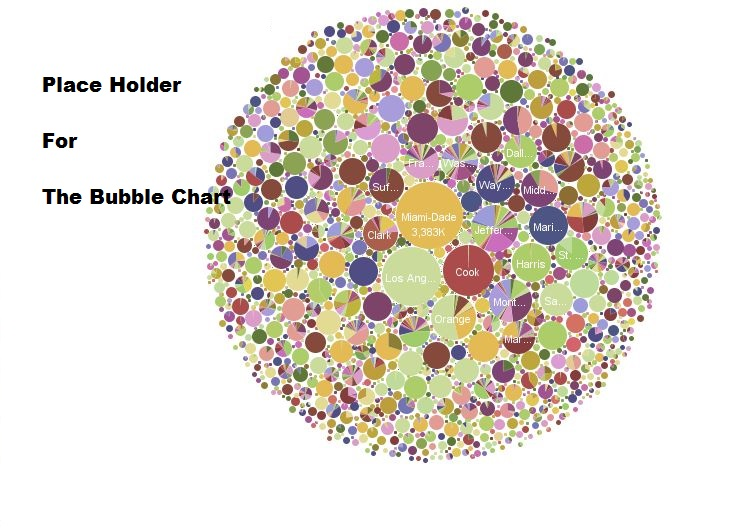
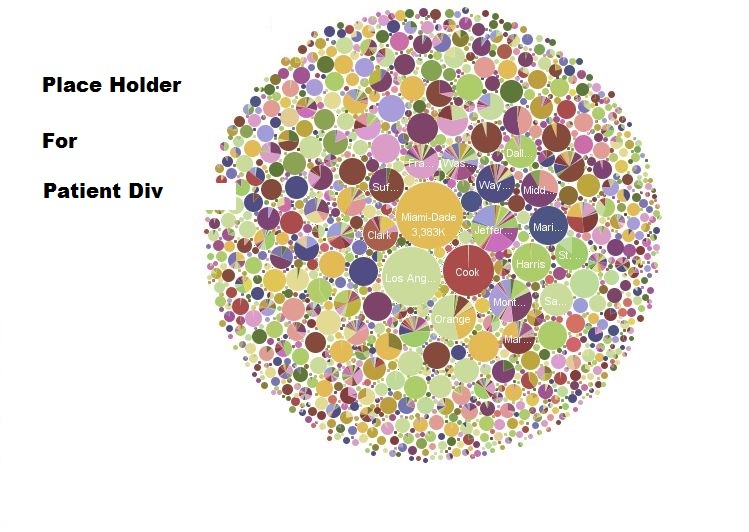
Donut chart changes & Tab Switching
text label position transition
switch between encounter and patient divs

Changed region(s): [[0.0614, 0.3308, 0.3378, 0.4211]]

diff --git a/index.html b/index.html
@@ -147,8 +147,8 @@ cursor:pointer;
             </div>
 
             <div class="collapse navbar-collapse" id="bs-example-navbar-collapse-1">
-				<a class="navbar-brand" href="#people" style="margin-left:100px"><b>Encounter-level</b></a>
-				<a class="navbar-brand" href="#courses" style="margin-left:50px"><b>Patient-level</b></a>
+				<a class="navbar-brand" href="#encounter" style="margin-left:100px" onclick="toggleView(1)"><b>Encounter-level</b></a>
+				<a class="navbar-brand" href="#patient" style="margin-left:50px" onclick="toggleView(2)"><b>Patient-level</b></a>
                 <!-- <ul class="nav navbar-nav">
                     <li>
                         <a href="#people">People</a>
@@ -258,54 +258,60 @@ cursor:pointer;
 			</div>
 		</div>
 		
-		<div class="col-sm-8">	
+		<div id="encounter">
+			<div class="col-sm-8">	
 
-			<table style="margin-top:20px;width:100%;">
-				<tr>
-					<td align="center">
-						<p style="font-size:30px;" id="encountercounttext"></p>
-					</td>
-					<td align="center">
-						<p style="font-size:30px;" id="membercounttext"></p>
-					</td>
-				</tr>
-			</table>		
-			<div align="center" style="margin-left:150px;" id="bubblechart">
-				<!--<img src="bubble_placeholder.jpg" style="border:1px solid black;" onClick="draw_charts_all()"></img>-->
-			</div>			
-			<table align="left">
-				<tr>
-					<div align="center" id="selected-bubble"></div>
-				</tr>
-				<tr>
-					<td style="width:250px;">
-						<div id="bardrugs" style="width: 550px"></div>
-					</td>
-					<td align="left" style="width:250px;">
-						<div id="barlabtest" style="width: 550px"></div>
-					</td>				
-					<td>
-						<p class="hide" id="visittypeheading" style="margin-left:70px;font-size:13px;font-family:sans-serif;">Visit Types</p>
-						<div align="center" id="visittypedougnut"></div>
-					</td>									
-				</tr>
-			</table>
-			<!--
-				<tr>
-					<td align="left">
-						<div id="visithistogram"></div>
-					</td>
-					<td align="right">
-						<div id="dougnutchart"></div>
-					</td>
-				</tr>
-				<tr>
-					<td align="center">
-						<div id="choronologicalvis"></div>
-					</td>
-				</tr>
-			</table>
-			-->
+				<table style="margin-top:20px;width:100%;">
+					<tr>
+						<td align="center">
+							<p style="font-size:30px;" id="encountercounttext"></p>
+						</td>
+						<td align="center">
+							<p style="font-size:30px;" id="membercounttext"></p>
+						</td>
+					</tr>
+				</table>		
+				<div align="center" style="margin-left:150px;" id="bubblechart">
+					<!--<img src="bubble_placeholder.jpg" style="border:1px solid black;" onClick="draw_charts_all()"></img>-->
+				</div>			
+				<table align="left">
+					<tr>
+						<div align="center" id="selected-bubble"></div>
+					</tr>
+					<tr>
+						<td style="width:250px;">
+							<div id="bardrugs" style="width: 550px"></div>
+						</td>
+						<td align="left" style="width:250px;">
+							<div id="barlabtest" style="width: 550px"></div>
+						</td>				
+						<td>
+							<p class="hide" id="visittypeheading" style="margin-left:70px;margin-top:30px;font-size:13px;font-family:sans-serif;"><b>Visit Types</b></p>
+							<div align="center" id="visittypedougnut"></div>
+						</td>									
+					</tr>
+				</table>
+				<!--
+					<tr>
+						<td align="left">
+							<div id="visithistogram"></div>
+						</td>
+						<td align="right">
+							<div id="dougnutchart"></div>
+						</td>
+					</tr>
+					<tr>
+						<td align="center">
+							<div id="choronologicalvis"></div>
+						</td>
+					</tr>
+				</table>
+				-->
+			</div>
+		</div>
+		
+		<div id="patient" style="visibility:hidden;">
+			<img src="bubble_placeholder.jpg" style="border:1px solid black;" onClick="draw_charts_all()"></img>
 		</div>
 		<!--
 		
@@ -359,6 +365,23 @@ cursor:pointer;
 </body>
 <script type="text/javascript" src="js/filterFunction.js"></script>
 <script type="text/javascript">
+	function toggleView(selectedView){
+		
+		if(selectedView==1){
+			document.getElementById('encounter').style.display = "inline";
+			document.getElementById('encounter').style.visibility = "visible";
+			document.getElementById('patient').style.display = "none";
+			document.getElementById('patient').style.visibility = "hidden";
+		}else{
+			document.getElementById('patient').style.display = "inline";
+			document.getElementById('patient').style.visibility = "visible";
+			document.getElementById('encounter').style.display = "none";
+			document.getElementById('encounter').style.visibility = "hidden";	
+		}
+			
+	}
+
+
 	function unique(list) {
 	    var result = [];
 	    $.each(list, function(i, e) {

diff --git a/js/donutChart.js b/js/donutChart.js
@@ -2,7 +2,7 @@
 function drawDonutChart(filteredDataMap){
 d3.select("#visittypedougnut").selectAll("svg").remove();
 $("#visittypeheading").removeClass("hide");
-//console.log(filteredDataMap)
+
 var tip = d3.tip()
 		  .attr('class', 'd3-tip')
 		  .offset([-10, 0])
@@ -25,7 +25,7 @@ var pie = d3.layout.pie()
 
 var arc = d3.svg.arc()
     .innerRadius(radius - 100)
-    .outerRadius(radius - 50);
+    .outerRadius(radius - 30);
 
 var svg = d3.select("#visittypedougnut").append("svg")
     .attr("width", width)
@@ -59,14 +59,17 @@ path.append("text")
             y = c[1],
             // pythagorean theorem for hypotenuse
             h = Math.sqrt(x*x + y*y);
-        return "translate(" + (20+(x/h * Math.min(width,height)/2)) +  ',' +
-           ((y/h)) +  ")"; 
+			if(x<0 && y<0)
+				return "translate(-15.965855847912636,-100.935583433283998)"; 
+			else
+				if(x>0 && y<0)
+					return "translate(-15.965855847912636,-100.935583433283998)"; 
+				else
+					return "translate(" + (20+(x/h * Math.min(width,height)/2)) +  ',' + ((y/h)) +  ")"; 
     })
-    .attr("style","font-size:10px;font-family:sans-serif;")    
+    .attr("style","font-size:12px;font-family:sans-serif;")    
     .attr("text-anchor", function(d) {
-        return (d.endAngle + d.startAngle)/2 > Math.PI ?
-            "end" : "start";
-    })
+        return (d.endAngle + d.startAngle)/2 > Math.PI ? "end" : "start"; })
     .text(function(d) { return d.data; });
 
 }
